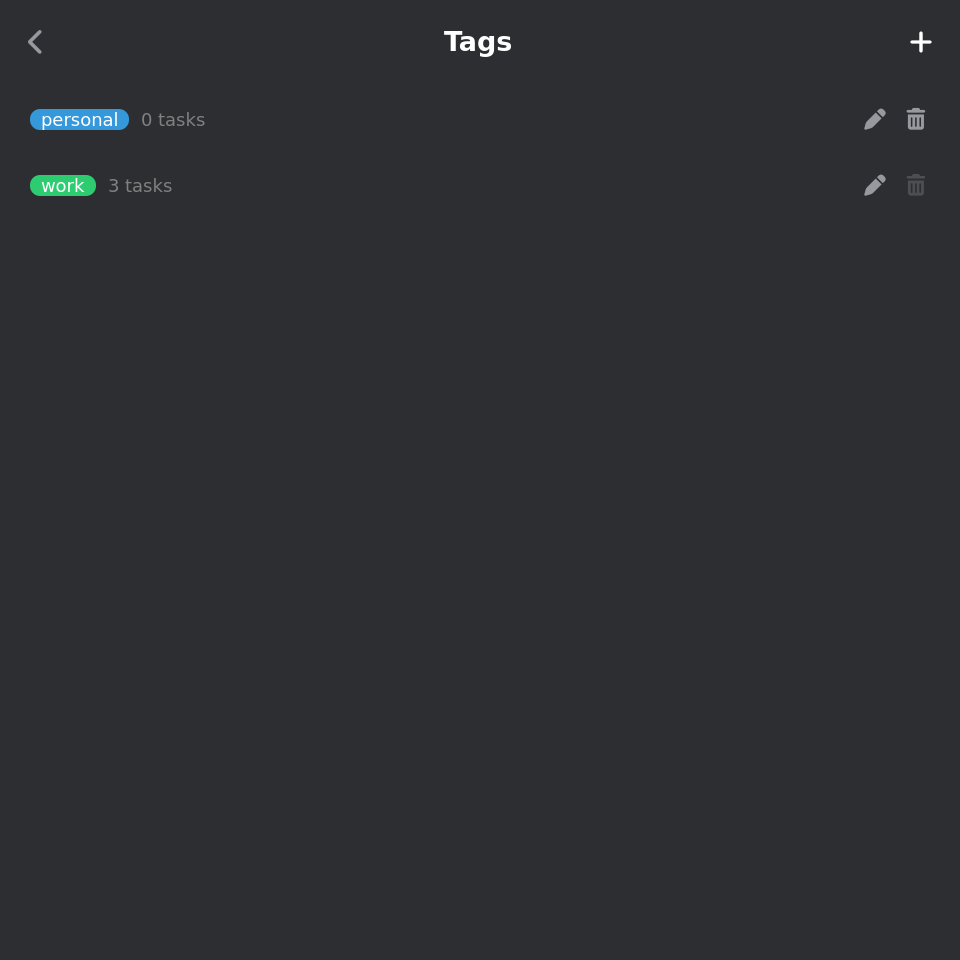
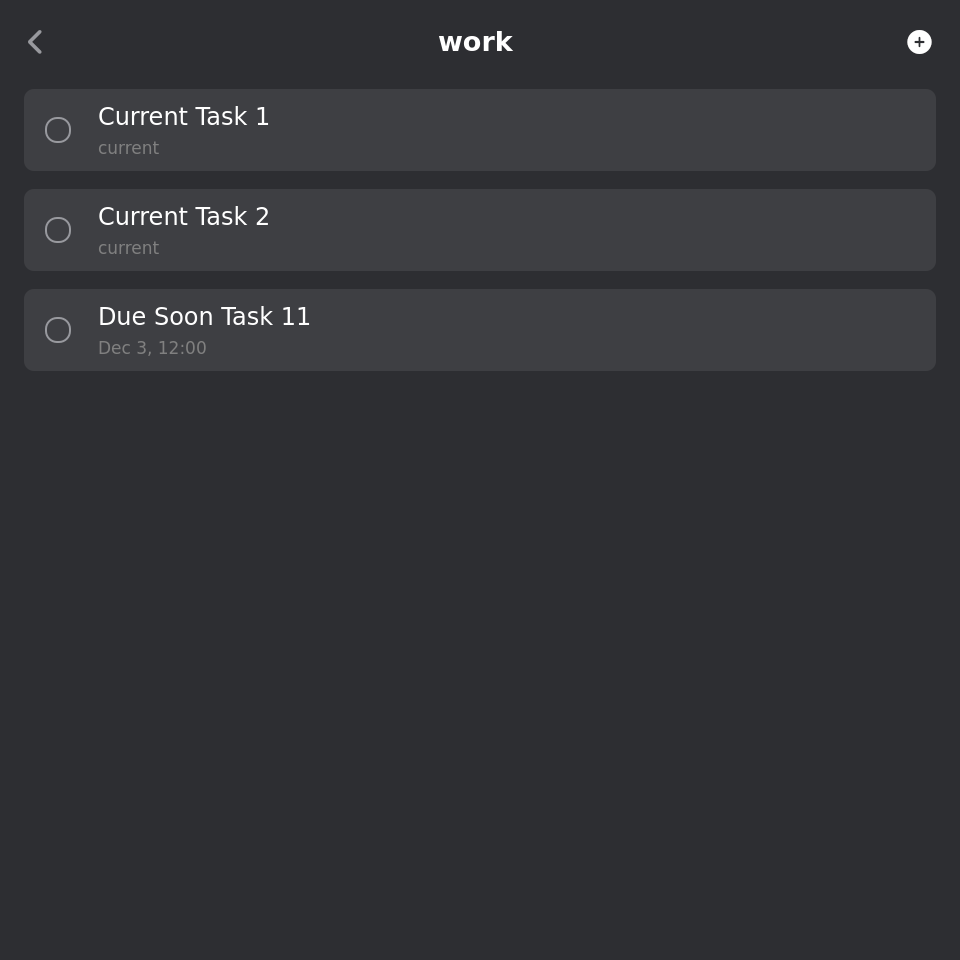
tests: Click the tag to open the tasks by tag page in screenshot_collection
The tap handler of the row doesn't react to the test's click, so the Qt screenshot was of the tags page.

diff --git a/src/gui/TagsView.qml b/src/gui/TagsView.qml
@@ -37,6 +37,7 @@ ListView {
             spacing: Style.fromPixel(8)
 
             Tag {
+                objectName: "tagChip_" + delegateRoot.name
                 tagName: delegateRoot.name
                 onClicked: {
                     GuiController.currentTag = tagName;

diff --git a/src/gui/tests/screenshot_collection.cpp b/src/gui/tests/screenshot_collection.cpp
@@ -111,7 +111,7 @@ protected:
         mouseClick("mainWindow/tagsPage/popupCancelButton");
         wait(std::chrono::milliseconds(300));
 
-        mouseClick("mainWindow/tagsPage/tagRow_work");
+        mouseClick("mainWindow/tagsPage/tagChip_work");
         shot("tasks_by_tag_page");
         mouseClick("mainWindow/tasksByTagPage/backButton");
         wait(std::chrono::milliseconds(300));
